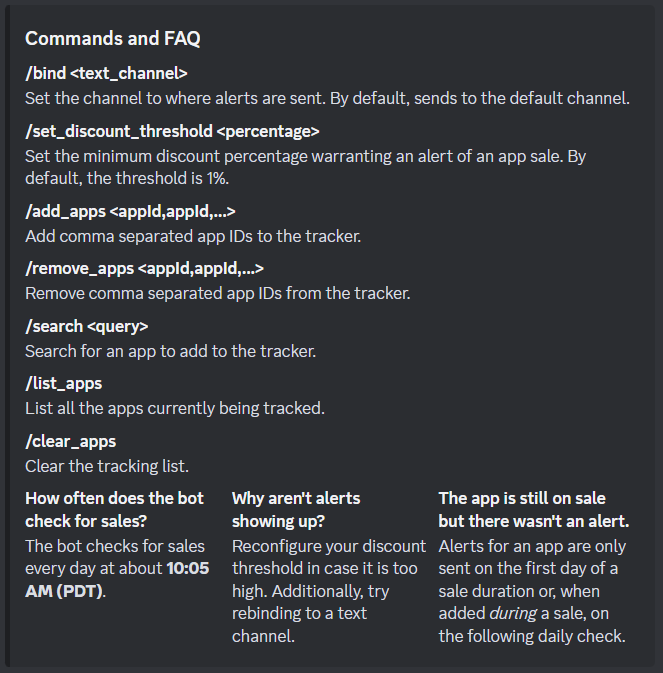
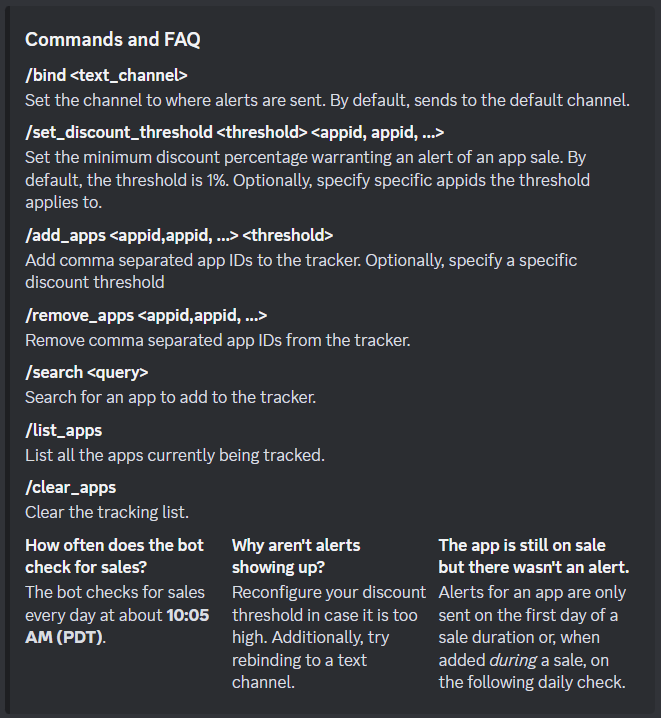
Added per-app discount threshold setting

Changed region(s): [[0.0303, 0.0312, 0.9682, 0.9673]]

diff --git a/internal/db/db.go b/internal/db/db.go
@@ -47,6 +47,7 @@ type JunctionRecord struct {
 	ServerID        *int64 `bson:"server_id,omitempty"`
 	TrailingSaleDay *bool  `bson:"is_trailing_sale_day,omitempty"`
 	ComingSoon      *bool  `bson:"coming_soon,omitempty"`
+	SaleThreshold   *int   `bson:"sale_threshold,omitempty"`
 }
 
 type JunctionInfo struct {
@@ -54,15 +55,17 @@ type JunctionInfo struct {
 	ServerID        int64 `bson:"server_id"`
 	TrailingSaleDay bool  `bson:"is_trailing_sale_day"`
 	ComingSoon      bool  `bson:"coming_soon"`
+	SaleThreshold   int   `bson:"sale_threshold"`
 }
 
 type GuildInfo struct {
-	ServerID        int64
-	ChannelID       int64
-	Appid           int
-	SaleThreshold   int
-	TrailingSaleDay bool
-	ComingSoon      bool
+	ServerID         int64
+	ChannelID        int64
+	Appid            int
+	AppSaleThreshold int
+	SaleThreshold    int
+	TrailingSaleDay  bool
+	ComingSoon       bool
 }
 
 func ctx() context.Context {
@@ -287,12 +290,13 @@ func GuildsOf(appid int) (guildInfos []GuildInfo, err error) {
 
 		guildInfos = append(guildInfos,
 			GuildInfo{
-				ServerID:        dInfo.ServerID,
-				ChannelID:       dInfo.ChannelID,
-				Appid:           jInfo.Appid,
-				SaleThreshold:   dInfo.SaleThreshold,
-				TrailingSaleDay: jInfo.TrailingSaleDay,
-				ComingSoon:      jInfo.ComingSoon,
+				ServerID:         dInfo.ServerID,
+				ChannelID:        dInfo.ChannelID,
+				Appid:            jInfo.Appid,
+				AppSaleThreshold: jInfo.SaleThreshold,
+				SaleThreshold:    dInfo.SaleThreshold,
+				TrailingSaleDay:  jInfo.TrailingSaleDay,
+				ComingSoon:       jInfo.ComingSoon,
 			},
 		)
 	}
@@ -305,7 +309,7 @@ func GuildsOf(appid int) (guildInfos []GuildInfo, err error) {
 
 // AddApps adds apps under a guild. If guildID hasn't been added through AddGuild(...),
 // adding the apps will still work but they won't be retrievable through AppsOf(...).
-func AddApps(guildID int64, apps []steam.App) (succ []steam.App, fail []steam.App) {
+func AddApps(guildID int64, apps []*steam.App) (succ []*steam.App, fail []*steam.App) {
 	sess, err := client.StartSession()
 	if err != nil {
 		return nil, apps
@@ -335,6 +339,7 @@ func AddApps(guildID int64, apps []steam.App) (succ []steam.App, fail []steam.Ap
 					ServerID:        &guildID,
 					TrailingSaleDay: &trailingSaleDay,
 					ComingSoon:      &app.ComingSoon,
+					SaleThreshold:   app.SaleThreshold,
 				},
 			)
 			if err != nil {
@@ -444,6 +449,37 @@ func SetThreshold(guildID int64, threshold int) error {
 		DiscordRecord{ServerID: &guildID},
 		DiscordRecord{SaleThreshold: &threshold},
 	)
+}
+
+// SetThresholds sets the sale threshold for alerts sent to a guild
+// for the specific appids
+func SetThresholds(guildID int64, threshold int, appids []int) (succ []int, fail []int) {
+	sess, err := client.StartSession()
+	if err != nil {
+		return nil, appids
+	}
+	defer sess.EndSession(ctx())
+
+	for _, appid := range appids {
+		transactionFn := func(ctx mongo.SessionContext) (any, error) {
+			err := update(junctionColl,
+				JunctionRecord{ServerID: &guildID, Appid: &appid},
+				JunctionRecord{SaleThreshold: &threshold})
+			if err != nil {
+				return nil, err
+			}
+
+			return nil, nil
+		}
+
+		if _, err := sess.WithTransaction(ctx(), transactionFn); err != nil {
+			fail = append(fail, appid)
+		} else {
+			succ = append(succ, appid)
+		}
+	}
+
+	return succ, fail
 }
 
 // SetTrailingSaleDay sets the trailing sale day field for an app for a guild

diff --git a/internal/cmd/set_discount_threshold.go b/internal/cmd/set_discount_threshold.go
@@ -2,6 +2,7 @@ package cmd
 
 import (
 	"strconv"
+	"strings"
 
 	"github.com/bwmarrin/discordgo"
 	"github.com/jasonly027/steam_sale_discord_bot_go/internal/db"
@@ -22,6 +23,12 @@ func NewSetDiscountThreshold() Cmd {
 				MinValue:    &min,
 				MaxValue:    99,
 			},
+			{
+				Type:        discordgo.ApplicationCommandOptionString,
+				Name:        "appids",
+				Description: "Sets the minimum discount for specific appids",
+				MaxLength:   150,
+			},
 		},
 		Handle: setDiscountThresholdHandler,
 	}
@@ -33,6 +40,14 @@ func setDiscountThresholdHandler(s *discordgo.Session, i *discordgo.InteractionC
 	// Parse discount threshold
 	threshold := i.ApplicationCommandData().Options[0].IntValue()
 
+	// Parse appids
+	appids := []int{}
+	invalidAppids := []string{}
+	if len(i.ApplicationCommandData().Options) > 1 {
+		strs := strings.Split(i.ApplicationCommandData().Options[1].StringValue(), ",")
+		appids, invalidAppids = strsToAppids(strs)
+	}
+
 	// Parse guildID
 	guildID, err := strconv.ParseInt(i.GuildID, 10, 64)
 	if err != nil {
@@ -42,10 +57,19 @@ func setDiscountThresholdHandler(s *discordgo.Session, i *discordgo.InteractionC
 
 	// Set threshold and write reply embed
 	var description string
-	if err = db.SetThreshold(guildID, int(threshold)); err != nil {
-		description = "Failed to update discount threshold, please try again"
+	if len(appids) == 0 && len(invalidAppids) == 0 {
+		if err = db.SetThreshold(guildID, int(threshold)); err != nil {
+			description = "Failed to update discount threshold, please try again"
+		} else {
+			description = "Successfully updated discount threshold"
+		}
 	} else {
-		description = "Successfully updated discount threshold"
+		_, fail := db.SetThresholds(guildID, int(threshold), appids)
+		if len(invalidAppids) > 0 || len(fail) > 0 {
+			description = "Failed to set the threshold for some apps, please try again"
+		} else {
+			description = "Successfully updated discount thresholds for apps"
+		}
 	}
 
 	EditReply(s, i, &discordgo.WebhookEdit{

diff --git a/internal/cmd/add_apps.go b/internal/cmd/add_apps.go
@@ -12,6 +12,7 @@ import (
 
 // NewAddApps creates /add_apps <appid>,<appid>,...
 func NewAddApps() Cmd {
+	min := float64(1)
 	return Cmd{
 		Name:        "add_apps",
 		Description: "Add apps by their appid to the tracker",
@@ -25,6 +26,13 @@ func NewAddApps() Cmd {
 				Required:  true,
 				MaxLength: 150,
 			},
+			{
+				Type:        discordgo.ApplicationCommandOptionInteger,
+				Name:        "threshold",
+				Description: "The minimum discount required to trigger a sale alert for these appids specifically",
+				MinValue:    &min,
+				MaxValue:    99,
+			},
 		},
 	}
 }
@@ -36,6 +44,12 @@ func addAppsHandler(s *discordgo.Session, i *discordgo.InteractionCreate) {
 	// Parse appids
 	strs := strings.Split(i.ApplicationCommandData().Options[0].StringValue(), ",")
 	succApps, invalidAppids := strsToApps(strs)
+	if len(i.ApplicationCommandData().Options) > 1 {
+		saleThreshold := int(i.ApplicationCommandData().Options[1].IntValue())
+		for _, app := range succApps {
+			app.SaleThreshold = &saleThreshold
+		}
+	}
 
 	// Parse guildID
 	guildID, err := strconv.ParseInt(i.GuildID, 10, 64)
@@ -86,7 +100,7 @@ func addAppsHandler(s *discordgo.Session, i *discordgo.InteractionCreate) {
 // strsToApps iterates through ss and, tries to create
 // valid App's with them. Valid apps need to have the price_overview
 // field set or haven't been released yet
-func strsToApps(ss []string) (succ []steam.App, fail []string) {
+func strsToApps(ss []string) (succ []*steam.App, fail []string) {
 	for _, s := range ss {
 		s = strings.TrimSpace(s)
 
@@ -105,7 +119,7 @@ func strsToApps(ss []string) (succ []steam.App, fail []string) {
 			continue
 		}
 
-		succ = append(succ, app)
+		succ = append(succ, &app)
 	}
 
 	return succ, fail

diff --git a/internal/steambot/steambot.go b/internal/steambot/steambot.go
@@ -148,8 +148,6 @@ func guildCreateHandler(s *discordgo.Session, g *discordgo.GuildCreate) {
 	}
 
 	db.AddGuild(guildID, channelID)
-
-	s.ApplicationCommandBulkOverwrite(s.State.User.ID, g.ID, []*discordgo.ApplicationCommand{})
 }
 
 func defaultTextChannel(s *discordgo.Session, chs []*discordgo.Channel) (int64, error) {
@@ -347,12 +345,26 @@ func updateGuildOnApp(s *discordgo.Session, app steam.App, guild db.GuildInfo) {
 	db.SetTrailingSaleDay(guild.ServerID, guild.Appid, app.Discount > 0)
 	db.SetComingSoon(guild.ServerID, guild.Appid, app.ComingSoon)
 
+	if guild.ChannelID == 0 {
+		return
+	}
 	channelID := strconv.FormatInt(guild.ChannelID, 10)
 
 	if !app.ComingSoon && guild.ComingSoon {
 		s.ChannelMessageSendEmbed(channelID, releaseEmbed(app))
-	} else if app.Discount >= guild.SaleThreshold && !guild.TrailingSaleDay &&
-		guild.ChannelID != 0 {
+	}
+
+	if guild.TrailingSaleDay {
+		return
+	}
+
+	// If app has specific threshold, compare with it.
+	if guild.AppSaleThreshold != 0 {
+		if app.Discount >= guild.AppSaleThreshold {
+			s.ChannelMessageSendEmbed(channelID, saleEmbed(app))
+		}
+		// Otherwise, compare with server's general threshold.
+	} else if app.Discount >= guild.SaleThreshold {
 		s.ChannelMessageSendEmbed(channelID, saleEmbed(app))
 	}
 }

diff --git a/internal/cmd/help.go b/internal/cmd/help.go
@@ -20,16 +20,18 @@ func NewHelp() Cmd {
 								"By default, sends to the default channel.",
 						},
 						{
-							Name: "/set_discount_threshold <percentage>",
+							Name: "/set_discount_threshold <threshold> <appid, appid, ...>",
 							Value: "Set the minimum discount percentage warranting an alert of an app sale. " +
-								"By default, the threshold is 1%.",
+								"By default, the threshold is 1%. Optionally, specify specific appids the " +
+								"threshold applies to.",
 						},
 						{
-							Name:  "/add_apps <appId,appId,...>",
-							Value: "Add comma separated app IDs to the tracker.",
+							Name: "/add_apps <appid,appid, ...> <threshold>",
+							Value: "Add comma separated app IDs to the tracker. Optionally, specify a " +
+								"specific discount threshold.",
 						},
 						{
-							Name:  "/remove_apps <appId,appId,...>",
+							Name:  "/remove_apps <appid,appid, ...>",
 							Value: "Remove comma separated app IDs from the tracker.",
 						},
 						{

diff --git a/internal/steam/steam.go b/internal/steam/steam.go
@@ -11,7 +11,7 @@ import (
 	"time"
 )
 
-// App is appDetails flattened and simplified
+// App is appDetails flattened and with a settable SaleThreshold
 type App struct {
 	Name        string
 	Appid       int
@@ -21,6 +21,7 @@ type App struct {
 	Reviews     int
 	ComingSoon  bool
 	Price
+	SaleThreshold *int
 }
 
 type Price struct {
